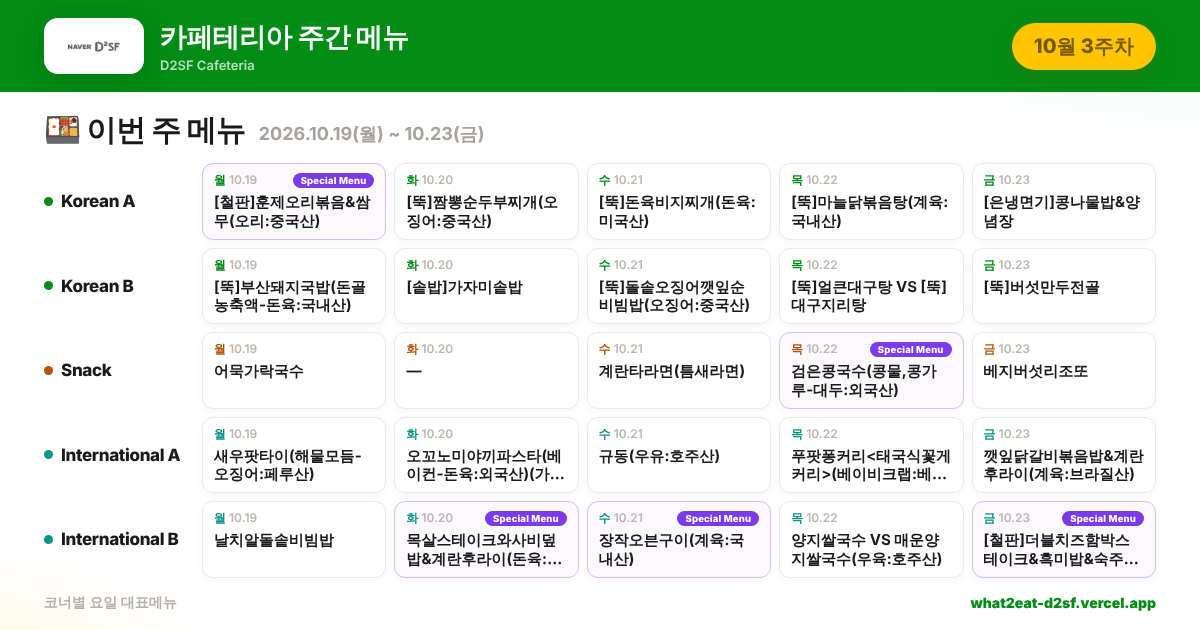
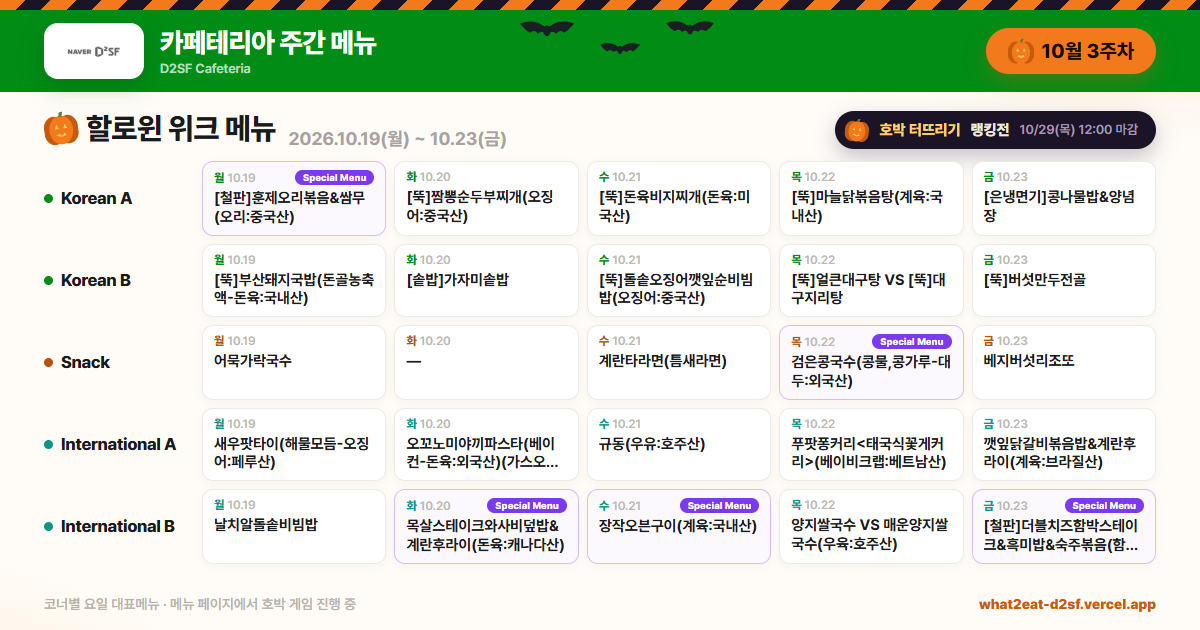
링크 프리뷰(OG) 할로윈 스킨: 할로윈 기간에 걸친 주차만 호박·박쥐 장식
- generate-og.mjs: src/lib/halloween.js 의 start~end 와 겹치는 주차만 할로윈 스킨
  (주황·검정 띠, 박쥐, 호박 주차 배지, "할로윈 위크 메뉴" + 호박 터뜨리기 랭킹전 배지)
- 장식은 SVG로 그려 CI(ubuntu, 이모지 폰트 없음)에서도 동일하게 렌더
- 2026-w20, w21 이미지 재생성 + og.png 폴백 + og:image 캐시버스터 갱신
- 11/01 이후 주차부터는 자동으로 기본 디자인

diff --git a/index.html b/index.html
@@ -20,13 +20,13 @@
     <meta property="og:url" content="https://what2eat-d2sf.vercel.app/" />
     <meta property="og:title" content="D2SF 카페테리아 — 이번 주 메뉴" />
     <meta property="og:description" content="🍴 오늘 뭐 먹지? 메뉴 검색부터 칼로리 분석까지, 점심 고민은 여기서 끝" />
-    <meta property="og:image" content="https://what2eat-d2sf.vercel.app/api/og?v=2026-w21-mvkjh99p" />
+    <meta property="og:image" content="https://what2eat-d2sf.vercel.app/api/og?v=2026-w21-mvkmg3tk" />
     <meta property="og:image:width" content="1200" />
     <meta property="og:image:height" content="630" />
     <meta name="twitter:card" content="summary_large_image" />
     <meta name="twitter:title" content="D2SF 카페테리아 — 이번 주 메뉴" />
     <meta name="twitter:description" content="🍴 오늘 뭐 먹지? 메뉴 검색부터 칼로리 분석까지, 점심 고민은 여기서 끝" />
-    <meta name="twitter:image" content="https://what2eat-d2sf.vercel.app/api/og?v=2026-w21-mvkjh99p" />
+    <meta name="twitter:image" content="https://what2eat-d2sf.vercel.app/api/og?v=2026-w21-mvkmg3tk" />
     <!-- /OG -->
   </head>
   <body>
